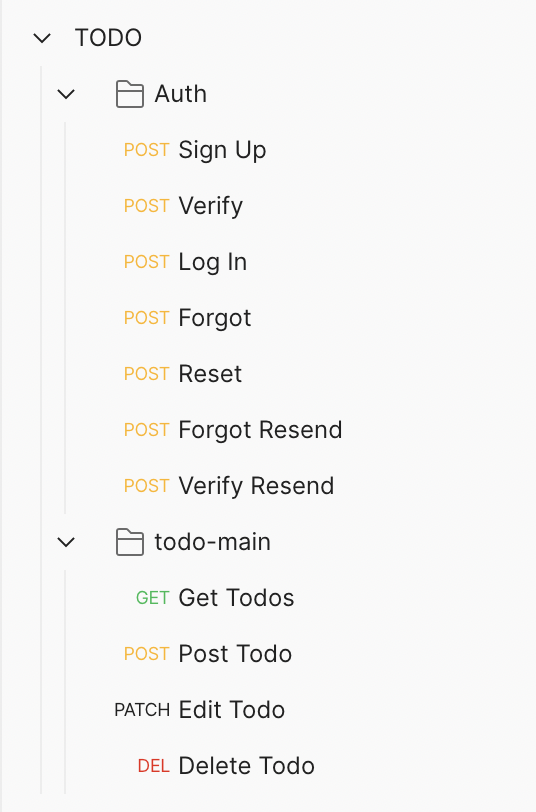
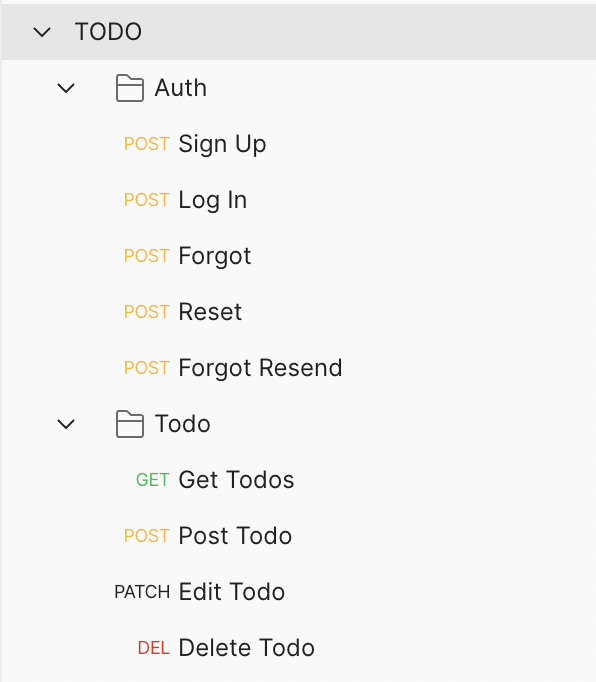
now working

diff --git a/authentication/views.py b/authentication/views.py
@@ -22,37 +22,12 @@ def signUp(request):
             else:
                 new_customer = UserModel.objects.create(email=email, name=name)
                 new_customer.set_password(password)
-                thread_obj = send_verification_email(email)
-                thread_obj.start()
                 new_customer.save()
-                return Response({"result":"Account created, verification mail sent"}, status=status.HTTP_201_CREATED)
+                return Response({"result":"Account created"}, status=status.HTTP_201_CREATED)
         return Response({"error":serializer.errors}, status=status.HTTP_400_BAD_REQUEST)
     except Exception as e:
         return Response({"error":str(e), "message":"Something went wrong"}, status=status.HTTP_500_INTERNAL_SERVER_ERROR)
 
-@api_view(["POST"])
-def verify(request):
-    try:
-        data = request.data
-        serializer = otpSerializer(data=data)
-        if serializer.is_valid():
-            otp = serializer.data["otp"]
-            if not OTPModel.objects.filter(otp=otp).first():
-                return Response({"result":"OTP expired"}, status=status.HTTP_408_REQUEST_TIMEOUT)
-            otp_obj = OTPModel.objects.get(otp=otp)
-            if otp_obj.is_valid == False:
-                return Response({"result":"OTP expired"}, status=status.HTTP_408_REQUEST_TIMEOUT)
-            user_obj = UserModel.objects.filter(email=otp_obj.user.email).first()
-            if user_obj:
-                if user_obj.is_verified:
-                    return Response({"result":"Account is already verified"}, status=status.HTTP_412_PRECONDITION_FAILED)
-                user_obj.is_verified = True
-                user_obj.save()
-                return Response({"result":"Account verification successfull"}, status=status.HTTP_202_ACCEPTED)
-            return Response({"result":"Account does not exist"}, status=status.HTTP_404_NOT_FOUND)
-        return Response({"error":serializer.errors}, status=status.HTTP_400_BAD_REQUEST)
-    except Exception as e:
-        return Response({"error":str(e), "message":"Something went wrong"}, status=status.HTTP_500_INTERNAL_SERVER_ERROR)
 
 @api_view(["POST"])
 def logIn(request):
@@ -65,8 +40,6 @@ def logIn(request):
             customer_obj = UserModel.objects.filter(email=email).first()
             if customer_obj is None:
                 return Response({"result":"Account does not exist"}, status=status.HTTP_404_NOT_FOUND)
-            if not customer_obj.is_verified:
-                return Response({"result":"Email not verified. Check your mail"}, status=status.HTTP_401_UNAUTHORIZED)
             user = authenticate(email=email, password=password)
             if not user:
                 return Response({"result":"Incorrect password"}, status=status.HTTP_406_NOT_ACCEPTABLE)
@@ -96,26 +69,20 @@ def forgot(request):
 def reset(request):
     try:
         data = request.data
-        serializer = otpSerializer(data=data)
+        serializer = OTPSerializer(data=data)
         if serializer.is_valid():
             otp = serializer.data["otp"]
-            if not OTPModel.objects.filter(otp=otp).first():
+            if not UserModel.objects.filter(otp=otp).first():
                 return Response({"result":"OTP expired"}, status=status.HTTP_408_REQUEST_TIMEOUT)
-            otp_obj = OTPModel.objects.get(otp=otp)
-            if otp_obj.is_valid == False:
-                return Response({"result":"OTP expired"}, status=status.HTTP_408_REQUEST_TIMEOUT)
-            if not UserModel.objects.filter(email=otp_obj.user.email).first():
-                return Response({"message":"user does not exist"}, status=status.HTTP_404_NOT_FOUND)
-            user_obj = UserModel.objects.get(email=otp_obj.user.email)
+            user_obj = UserModel.objects.get(otp=otp)
             npw = serializer.data["npw"]
             cpw = serializer.data["cpw"]
             if npw == cpw:
                 user_obj.set_password(cpw)
                 user_obj.save()
                 return Response({"result":"Password changed successfull"}, status=status.HTTP_202_ACCEPTED)
-        else:return Response({"error":serializer.errors}, status=status.HTTP_400_BAD_REQUEST)
+        return Response({"error":serializer.errors}, status=status.HTTP_400_BAD_REQUEST)
     except Exception as e:
-        print(e)
         return Response({"error":str(e), "message":"Something went wrong"}, status=status.HTTP_500_INTERNAL_SERVER_ERROR)
 
 
@@ -127,24 +94,6 @@ def resendForgot(request):
         if serializer.is_valid():
             email = serializer.data["email"]
             thread_obj = send_forgot_link(email)
-            thread_obj.start()
-            return Response({"message":"OTP sent on your email"}, status=status.HTTP_200_OK)
-        return Response({"errors":serializer.errors}, status=status.HTTP_400_BAD_REQUEST)
-    except Exception as e:
-        return Response({"error":str(e)}, status=status.HTTP_500_INTERNAL_SERVER_ERROR)
-
-
-@api_view(["POST"])
-def resendVerify(request):
-    try:
-        data = request.data
-        serializer = emailSerializer(data=data)
-        if serializer.is_valid():
-            email = serializer.data["email"]
-            obj = UserModel.objects.get(email=email)
-            if obj.is_verified == True:
-                return Response({"message":"Account already verified"}, status=status.HTTP_208_ALREADY_REPORTED)
-            thread_obj = send_verification_email(email)
             thread_obj.start()
             return Response({"message":"OTP sent on your email"}, status=status.HTTP_200_OK)
         return Response({"errors":serializer.errors}, status=status.HTTP_400_BAD_REQUEST)

diff --git a/authentication/threads.py b/authentication/threads.py
@@ -1,24 +1,8 @@
-import threading, random
+import threading, uuid
 from django.conf import settings
 from django.core.mail import send_mail
 from .models import *
 
-class send_verification_email(threading.Thread):
-    def __init__(self, email):
-        self.email = email
-        threading.Thread.__init__(self)
-    def run(self):
-        try:
-            otp = random.randint(100001, 999999)
-            OTPModel.objects.create(otp=otp,is_valid=True ,user=UserModel.objects.get(email=self.email))
-            subject = "OTP to verify the your Account"
-            message = f"The OTP to verify your email is {otp} \nIts valid only for 5 mins."
-            email_from = settings.EMAIL_HOST_USER
-            print("Email send started")
-            send_mail(subject , message ,email_from ,[self.email])
-            print("Email send finished")
-        except Exception as e:
-            print(e)
 
 class send_forgot_link(threading.Thread):
     def __init__(self, email):
@@ -26,13 +10,15 @@ class send_forgot_link(threading.Thread):
         threading.Thread.__init__(self)
     def run(self):
         try:
-            otp = random.randint(100001, 999999)
-            OTPModel.objects.create(otp=otp,is_valid=True ,user=UserModel.objects.get(email=self.email))
+            otp = uuid.uuid4()
+            obj = UserModel.objects.get(email=self.email)
+            obj.otp = otp
+            obj.save()
+            print(otp)
             subject = "OTP to change password"
-            message = f"The OTP to change your account password {otp} \nIts valid only for 5 mins."
-            email_from = settings.EMAIL_HOST_USER
+            message = f"The OTP to change your account password\n {otp}"
             print("Email send started")
-            send_mail(subject , message ,email_from ,[self.email])
+            send_mail(subject , message ,settings.EMAIL_HOST_USER ,[self.email])
             print("Email send finished")
         except Exception as e:
                 print(e)

diff --git a/app/views.py b/app/views.py
@@ -10,11 +10,12 @@ from .models import *
 class TodoLC(ListCreateAPIView):
     authentication_classes = [JWTAuthentication]
     permission_classes = [IsAuthenticated]
-    queryset = TodoModel.objects.all()
+    queryset = TodoModel.objects.all().order_by("-created_at")
     serializer_class = TodoSerializer
     def list(self, request, *args, **kwargs):
         try:
-            serializer = self.serializer_class(TodoModel.objects.filter(user=UserModel.objects.get(email=request.user.email)), many=True)
+            objs = TodoModel.objects.filter(user=UserModel.objects.get(email=request.user.email)).order_by("-created_at")
+            serializer = self.serializer_class(objs, many=True)
             return Response({"data":serializer.data}, status=status.HTTP_200_OK)
         except Exception as e:
             return Response({"error":str(e), "message":"Something went wrong"}, status=status.HTTP_500_INTERNAL_SERVER_ERROR)
@@ -26,7 +27,7 @@ class TodoLC(ListCreateAPIView):
             serializer = self.serializer_class(data=data)
             if serializer.is_valid(self):
                 serializer.save(user=UserModel.objects.get(email=request.user.email))
-                return Response({"message":"Task added"}, status=status.HTTP_202_ACCEPTED)
+                return Response({"message":"Task added", "data":serializer.data}, status=status.HTTP_202_ACCEPTED)
             return Response({"error":serializer.errors}, status=status.HTTP_400_BAD_REQUEST)
         except Exception as e:
             return Response({"error":str(e), "message":"Something went wrong"}, status=status.HTTP_500_INTERNAL_SERVER_ERROR)

diff --git a/authentication/migrations/0001_initial.py b/authentication/migrations/0001_initial.py
@@ -1,7 +1,8 @@
-# Generated by Django 3.2.8 on 2021-10-26 18:18
+# Generated by Django 4.0.2 on 2022-02-08 18:07
 
+from django.conf import settings
 from django.db import migrations, models
-import uuid
+import django.db.models.deletion
 
 
 class Migration(migrations.Migration):
@@ -9,21 +10,19 @@ class Migration(migrations.Migration):
     initial = True
 
     dependencies = [
+        ('base', '0001_initial'),
     ]
 
     operations = [
         migrations.CreateModel(
-            name='OTPModel',
+            name='UserModel',
             fields=[
-                ('id', models.UUIDField(default=uuid.uuid4, editable=False, primary_key=True, serialize=False)),
-                ('created_at', models.DateTimeField(auto_now=True)),
-                ('updated_at', models.DateTimeField(auto_now_add=True)),
-                ('otp', models.IntegerField()),
-                ('is_valid', models.BooleanField(default=False)),
-                ('expiry_date', models.DateTimeField(null=True)),
+                ('baseuser_ptr', models.OneToOneField(auto_created=True, on_delete=django.db.models.deletion.CASCADE, parent_link=True, primary_key=True, serialize=False, to=settings.AUTH_USER_MODEL)),
+                ('otp', models.CharField(blank=True, max_length=20, null=True)),
             ],
             options={
                 'abstract': False,
             },
+            bases=('base.baseuser',),
         ),
     ]

diff --git a/authentication/serializers.py b/authentication/serializers.py
@@ -4,18 +4,15 @@ class loginSerializer(serializers.Serializer):
     email = serializers.EmailField(required = True)
     password = serializers.CharField(required = True)
 
-
 class signupSerializer(serializers.Serializer):
     name = serializers.CharField(required = True)
     email = serializers.EmailField(required = True)
     password = serializers.CharField(required = True)
 
-
-class otpSerializer(serializers.Serializer):
-    otp = serializers.IntegerField(required = True)
-    npw = serializers.CharField(required = False)
-    cpw = serializers.CharField(required = False)
-
-
 class emailSerializer(serializers.Serializer):
     email = serializers.EmailField(required = True)
+
+class OTPSerializer(serializers.Serializer):
+    otp = serializers.CharField(required = True)
+    npw = serializers.CharField(required = True)
+    cpw = serializers.CharField(required = True)

diff --git a/app/migrations/0001_initial.py b/app/migrations/0001_initial.py
@@ -1,4 +1,4 @@
-# Generated by Django 3.2.8 on 2021-10-26 18:18
+# Generated by Django 4.0.2 on 2022-02-08 18:07
 
 from django.db import migrations, models
 import uuid
@@ -18,8 +18,7 @@ class Migration(migrations.Migration):
                 ('id', models.UUIDField(default=uuid.uuid4, editable=False, primary_key=True, serialize=False)),
                 ('created_at', models.DateTimeField(auto_now=True)),
                 ('updated_at', models.DateTimeField(auto_now_add=True)),
-                ('title', models.CharField(max_length=50)),
-                ('description', models.TextField()),
+                ('task', models.CharField(max_length=50)),
                 ('is_completed', models.BooleanField(default=False)),
             ],
             options={

diff --git a/base/migrations/0001_initial.py b/base/migrations/0001_initial.py
@@ -1,4 +1,4 @@
-# Generated by Django 3.2.8 on 2021-10-26 18:18
+# Generated by Django 4.0.2 on 2022-02-08 18:07
 
 from django.db import migrations, models
 import uuid
@@ -24,7 +24,6 @@ class Migration(migrations.Migration):
                 ('email', models.EmailField(max_length=100, unique=True)),
                 ('name', models.CharField(blank=True, max_length=100, null=True)),
                 ('phone', models.CharField(blank=True, max_length=13, null=True)),
-                ('is_verified', models.BooleanField(default=False)),
                 ('is_staff', models.BooleanField(default=False)),
                 ('is_superuser', models.BooleanField(default=False)),
                 ('is_active', models.BooleanField(default=True)),

diff --git a/authentication/models.py b/authentication/models.py
@@ -2,11 +2,6 @@ from django.db import models
 from base.models import *
 
 class UserModel(BaseUser):
+    otp = models.CharField(max_length=20, null=True, blank=True)
     def __str__(self):
         return self.email
-
-class OTPModel(BaseModel):
-    otp = models.IntegerField()
-    is_valid = models.BooleanField(default=False)
-    expiry_date = models.DateTimeField(auto_now=False, auto_now_add=False, null=True)
-    user = models.ForeignKey(UserModel, on_delete=models.CASCADE)

diff --git a/base/models.py b/base/models.py
@@ -16,7 +16,6 @@ class BaseUser(AbstractBaseUser, PermissionsMixin, BaseModel):
     email = models.EmailField(max_length=100, unique=True)
     name = models.CharField(max_length=100, null=True, blank=True)
     phone = models.CharField(max_length=13, null=True, blank=True)
-    is_verified = models.BooleanField(default=False)
     is_staff = models.BooleanField(default=False)
     is_superuser = models.BooleanField(default=False)
     is_active = models.BooleanField(default=True)

diff --git a/core/settings.py b/core/settings.py
@@ -5,7 +5,7 @@ from datetime import timedelta
 
 BASE_DIR = Path(__file__).resolve().parent.parent
 
-SECRET_KEY = config("SECRET_KEY")
+SECRET_KEY = "django-insecure-n&u79dcexa#n=))^@l@*2lp73&lp$xfo!+(4g&kyfok@g!ump-"
 
 DEBUG = True
 
@@ -142,4 +142,3 @@ EMAIL_HOST_USER = config("EMAIL_HOST_USER")
 EMAIL_HOST_PASSWORD = config("EMAIL_HOST_PASSWORD")
 
 CORS_ALLOW_ALL_ORIGINS = True
-CORS_ALLOW_METHODS = ["DELETE", "GET", "OPTIONS", "PATCH", "POST"]

diff --git a/app/migrations/0002_initial.py b/app/migrations/0002_initial.py
@@ -1,4 +1,4 @@
-# Generated by Django 3.2.8 on 2021-10-26 18:18
+# Generated by Django 4.0.2 on 2022-02-08 18:07
 
 from django.db import migrations, models
 import django.db.models.deletion
@@ -9,8 +9,8 @@ class Migration(migrations.Migration):
     initial = True
 
     dependencies = [
+        ('authentication', '0001_initial'),
         ('app', '0001_initial'),
-        ('authentication', '0002_initial'),
     ]
 
     operations = [

diff --git a/authentication/urls.py b/authentication/urls.py
@@ -4,10 +4,8 @@ from .views import *
 
 urlpatterns = [
 	path('signup/', views.signUp, name="signup"),
-	path('verify/', views.verify, name="verify"),
 	path('login/', views.logIn, name="login"),
 	path('forgot/', views.forgot, name="forgot"),
 	path('reset/', views.reset, name="reset"),
 	path('resend/forgot/', views.resendForgot, name="resend-forgot"),
-	path('resend/verify/', views.resendVerify, name="resend-verify"),
 ]
